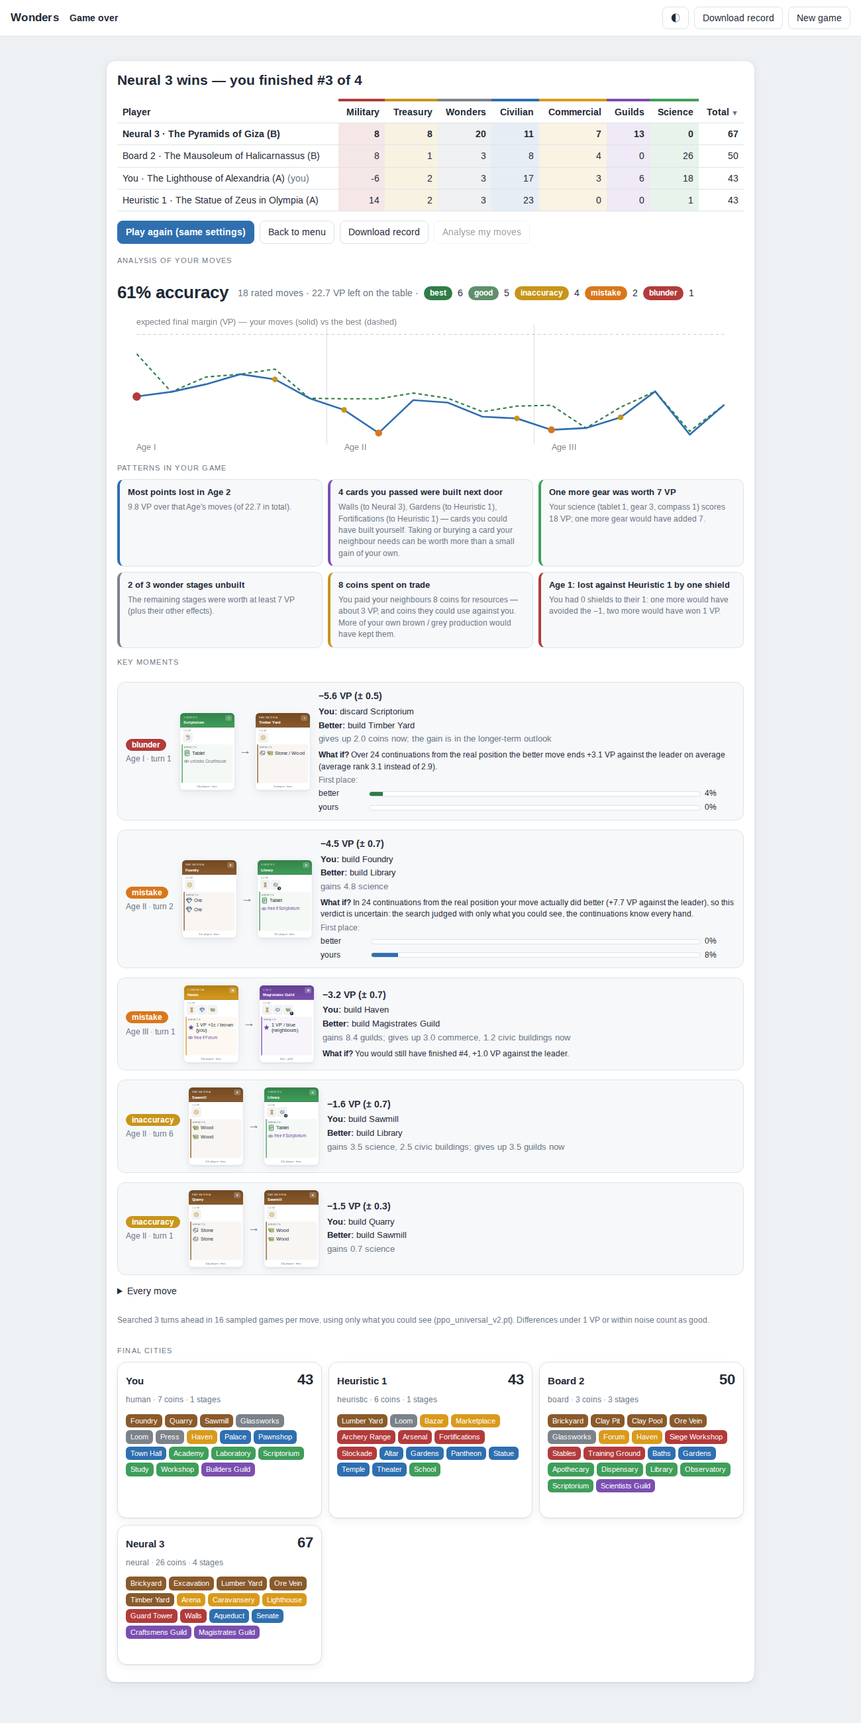
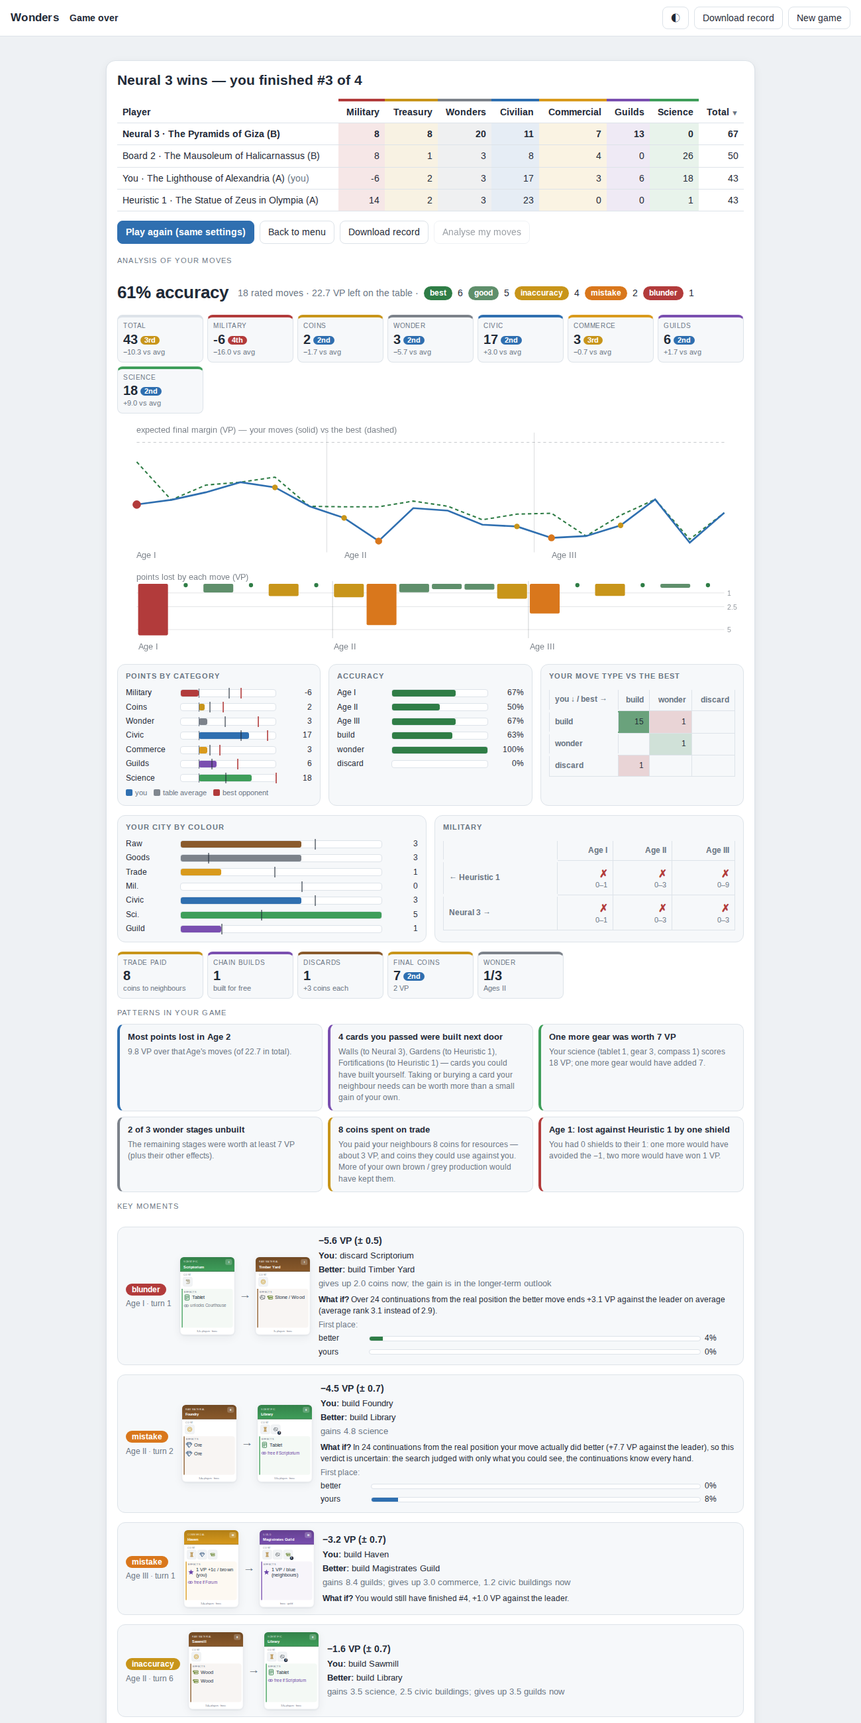
Post-game analysis: per-aspect ratings and visual decision impacts
- analysis.aspects: score categories (yours, table average, best opponent, rank), accuracy and
  VP lost by Age and by move type, played-vs-best move-type matrix, city colours vs the table,
  military result per Age and neighbour, economy (trade paid, chain builds, discards, final coins
  and rank) and wonder stages with their Ages.
- GUI, as stats and charts only: a ratings strip with rank badges, a points-lost-per-move bar chart
  under the margin graph (coloured by rating, tooltips), category bars with average / best markers,
  accuracy bars, a move-type heat grid, city colours, a military result grid, economy and wonder
  cells.
- Tests and docs (CHANGELOG, ROADMAP, CLAUDE.md).

Claude-Session: https://claude.ai/code/session_018AtNR544Y8QdmBVd85cM5L

diff --git a/wonders/play/static/index.html b/wonders/play/static/index.html
@@ -207,6 +207,28 @@ main { max-width: 1920px; margin: 0 auto; padding: 12px 16px; }
 .an-pattern { padding: 10px 12px; border: 1px solid var(--line); border-left: 4px solid var(--pc); border-radius: 10px; background: var(--panel-2); }
 .an-pattern h4 { margin: 0 0 4px; font-size: 13px; }
 .an-pattern p { margin: 0; font-size: 12px; color: var(--muted); }
+.an-strip { display: grid; grid-template-columns: repeat(auto-fill, minmax(118px, 1fr)); gap: 6px; }
+.an-stat { border: 1px solid var(--line); border-top: 4px solid var(--sc, var(--line)); border-radius: 8px; padding: 6px 8px; background: var(--panel-2); }
+.an-stat .k { font-size: 10px; letter-spacing: .6px; text-transform: uppercase; color: var(--muted); white-space: nowrap; overflow: hidden; text-overflow: ellipsis; }
+.an-stat .v { font-size: 20px; font-weight: 800; font-variant-numeric: tabular-nums; line-height: 1.2; }
+.an-stat .s { font-size: 11px; color: var(--muted); font-variant-numeric: tabular-nums; }
+.an-rank { display: inline-block; font-size: 11px; font-weight: 700; padding: 0 6px; border-radius: 999px; margin-left: 4px; vertical-align: middle;
+  background: var(--rk); color: #fff; }
+.an-row { display: grid; grid-template-columns: repeat(auto-fit, minmax(260px, 1fr)); gap: 12px; }
+.an-box { border: 1px solid var(--line); border-radius: 12px; padding: 10px 12px; background: var(--panel-2); }
+.an-box h5 { margin: 0 0 8px; font-size: 11px; letter-spacing: 1px; text-transform: uppercase; color: var(--muted); }
+.an-bars { display: grid; grid-template-columns: 74px minmax(0, 1fr) 46px; gap: 4px 8px; align-items: center; font-size: 12px; }
+.an-track { position: relative; height: 12px; border-radius: 4px; background: var(--panel); border: 1px solid var(--line); }
+.an-track .fill { position: absolute; top: 0; bottom: 0; border-radius: 3px; }
+.an-track .avg { position: absolute; top: -3px; bottom: -3px; width: 2px; background: var(--ink); opacity: .55; }
+.an-track .top { position: absolute; top: -3px; bottom: -3px; width: 2px; background: var(--red); opacity: .8; }
+.an-track .zero { position: absolute; top: -2px; bottom: -2px; width: 1px; background: var(--muted); }
+.an-grid { border-collapse: collapse; font-size: 12px; width: 100%; }
+.an-grid td, .an-grid th { padding: 3px 6px; text-align: center; border: 1px solid var(--line); font-variant-numeric: tabular-nums; }
+.an-grid th { color: var(--muted); font-weight: 600; }
+.an-mil { font-size: 16px; font-weight: 800; }
+.an-legend { display: flex; gap: 10px; font-size: 11px; color: var(--muted); margin-top: 6px; flex-wrap: wrap; }
+.an-legend i { display: inline-block; width: 10px; height: 10px; border-radius: 2px; margin-right: 4px; vertical-align: -1px; }
 .an-progress { height: 8px; border-radius: 999px; background: var(--panel-2); border: 1px solid var(--line); overflow: hidden; }
 .an-progress div { height: 100%; background: var(--accent); width: 0; transition: width .3s; }
 
@@ -825,6 +847,121 @@ function whatIf(w) {
     (w.best.first || w.played.first) ? bar('better', w.best.first, 'var(--green)') : null,
     (w.best.first || w.played.first) ? bar('yours', w.played.first, 'var(--accent)') : null);
 }
+const CAT_LABEL = { total: 'Total', military: 'Military', treasury: 'Coins', wonders: 'Wonder', civilian: 'Civic', commercial: 'Commerce',
+  guilds: 'Guilds', science: 'Science', leaders: 'Leaders', cities: 'Cities' };
+const RANK_COLOR = ['var(--green)', 'var(--accent)', 'var(--gold)', 'var(--red)'];
+const ordinal = (n) => n + (n === 1 ? 'st' : n === 2 ? 'nd' : n === 3 ? 'rd' : 'th');
+function rankBadge(rank, players) {
+  const color = rank === 1 ? RANK_COLOR[0] : rank === players ? RANK_COLOR[3] : rank <= players / 2 ? RANK_COLOR[1] : RANK_COLOR[2];
+  return el('span', { class: 'an-rank', style: `--rk:${color}` }, ordinal(rank));
+}
+function stat(key, value, sub, color, tip, extra) {
+  return el('div', { class: 'an-stat', style: color ? `--sc:${color}` : null, 'data-tip': tip || null },
+    el('div', { class: 'k' }, key), el('div', { class: 'v' }, value, extra || null), sub !== null ? el('div', { class: 's' }, sub) : null);
+}
+function categoryStrip(asp) {
+  const order = [...asp.categories].sort((x, y) => (y.key === 'total') - (x.key === 'total'));
+  return el('div', { class: 'an-strip' }, order.map((c) => {
+    const d = c.mine - c.average;
+    return stat(CAT_LABEL[c.key] || c.key, String(c.mine), `${d >= 0 ? '+' : '−'}${Math.abs(d).toFixed(1)} vs avg`, CAT_COLOR[c.key],
+      `${CAT_LABEL[c.key] || c.key}: ${c.mine} VP, table average ${c.average}, best opponent ${c.best_other}`, rankBadge(c.rank, asp.players));
+  }));
+}
+function categoryBars(asp) {
+  const cats = asp.categories.filter((c) => c.key !== 'total');
+  const all = cats.flatMap((c) => [c.mine, c.average, c.best_other]);
+  const lo = Math.min(0, ...all), hi = Math.max(1, ...all);
+  const pos = (v) => (100 * (v - lo) / (hi - lo));
+  const rows = cats.flatMap((c) => {
+    const a = pos(Math.min(0, c.mine)), b = pos(Math.max(0, c.mine));
+    return [el('span', {}, CAT_LABEL[c.key] || c.key),
+      el('div', { class: 'an-track', 'data-tip': `You ${c.mine} · average ${c.average} · best opponent ${c.best_other}` },
+        el('div', { class: 'fill', style: `left:${a}%;width:${Math.max(1, b - a)}%;background:${CAT_COLOR[c.key] || 'var(--accent)'}` }),
+        lo < 0 ? el('div', { class: 'zero', style: `left:${pos(0)}%` }) : null,
+        el('div', { class: 'avg', style: `left:${pos(c.average)}%` }), el('div', { class: 'top', style: `left:${pos(c.best_other)}%` })),
+      el('span', { style: 'text-align:right;font-variant-numeric:tabular-nums' }, String(c.mine))];
+  });
+  return el('div', { class: 'an-box' }, el('h5', {}, 'Points by category'), el('div', { class: 'an-bars' }, rows),
+    el('div', { class: 'an-legend' }, el('span', {}, el('i', { style: 'background:var(--accent)' }), 'you'),
+      el('span', {}, el('i', { style: 'background:var(--ink);opacity:.55' }), 'table average'),
+      el('span', {}, el('i', { style: 'background:var(--red)' }), 'best opponent')));
+}
+function impactChart(decisions) {
+  const rated = decisions.filter((d) => 'loss' in d);
+  if (!rated.length) return null;
+  const W = 900, H = 120, pad = 28, bw = (W - 2 * pad) / rated.length;
+  const top = Math.max(5, ...rated.map((d) => d.loss));
+  let svg = `<svg viewBox="0 0 ${W} ${H}" role="img" aria-label="Points lost by each move">`;
+  svg += `<text x="${pad}" y="12" font-size="12" fill="currentColor" opacity=".6">points lost by each move (VP)</text>`;
+  [1, 2.5, 5].forEach((v) => { if (v <= top) { const y = 18 + (H - pad - 18) * (v / top);
+    svg += `<line x1="${pad}" x2="${W - pad}" y1="${y}" y2="${y}" stroke="currentColor" stroke-opacity=".12"/><text x="${W - pad + 4}" y="${y + 4}" font-size="10" fill="currentColor" opacity=".5">${v}</text>`; } });
+  rated.forEach((d, i) => {
+    const x = pad + i * bw, h = (H - pad - 18) * (d.loss / top);
+    if (i && d.age !== rated[i - 1].age) svg += `<line x1="${x}" x2="${x}" y1="14" y2="${H - pad + 4}" stroke="currentColor" stroke-opacity=".2"/>`;
+    const tip = `Age ${AGES[d.age]} turn ${d.turn}: ${moveText(d.played)} — ${d.label}${d.loss ? ' (−' + d.loss.toFixed(1) + ' VP; better: ' + moveText(d.best) + ')' : ''}`;
+    svg += `<g data-tip="${tip.replace(/"/g, '&quot;')}"><rect x="${x + 1}" y="18" width="${bw - 2}" height="${H - pad - 18}" fill="transparent"/>`;
+    svg += d.loss > 0 ? `<rect x="${x + 2}" y="18" width="${bw - 4}" height="${Math.max(2, h)}" rx="2" fill="${LABEL_COLOR[d.label] || 'gray'}"/>`
+      : `<circle cx="${x + bw / 2}" cy="20" r="3" fill="${LABEL_COLOR[d.label]}"/>`;
+    svg += '</g>';
+  });
+  [1, 2, 3].forEach((a) => { const i = rated.findIndex((d) => d.age === a);
+    if (i >= 0) svg += `<text x="${pad + i * bw + 2}" y="${H - 8}" font-size="12" fill="currentColor" opacity=".6">Age ${AGES[a]}</text>`; });
+  svg += '</svg>';
+  const box = el('div', { class: 'an-graph' }); box.innerHTML = svg; return box;
+}
+function accuracyBox(asp) {
+  const bar = (label, s, tip) => [el('span', {}, label),
+    el('div', { class: 'an-track', 'data-tip': tip }, el('div', { class: 'fill', style: `left:0;width:${Math.round(100 * (s.accuracy || 0))}%;background:var(--green)` })),
+    el('span', { style: 'text-align:right' }, s.accuracy === null ? '–' : Math.round(100 * s.accuracy) + '%')];
+  const rows = asp.by_age.filter((s) => s.moves).flatMap((s) => bar('Age ' + AGES[s.age], s, `${s.moves} moves · ${s.loss.toFixed(1)} VP lost`));
+  const kinds = Object.entries(asp.by_kind).flatMap(([k, s]) => bar(VERB[k] ? k : k, s, `${s.moves} ${k} moves · ${s.loss.toFixed(1)} VP lost`));
+  return el('div', { class: 'an-box' }, el('h5', {}, 'Accuracy'), el('div', { class: 'an-bars' }, rows, kinds));
+}
+function matrixBox(asp) {
+  const kinds = ['build', 'wonder', 'discard', 'free'].filter((k) => asp.kind_matrix[k] || Object.values(asp.kind_matrix).some((r) => r[k]));
+  const max = Math.max(1, ...Object.values(asp.kind_matrix).flatMap((r) => Object.values(r)));
+  return el('div', { class: 'an-box' }, el('h5', {}, 'Your move type vs the best'),
+    el('table', { class: 'an-grid' }, el('tr', {}, el('th', {}, 'you ↓ / best →'), kinds.map((k) => el('th', {}, k))),
+      kinds.map((k) => el('tr', {}, el('th', {}, k), kinds.map((b) => {
+        const n = (asp.kind_matrix[k] || {})[b] || 0;
+        const color = k === b ? 'var(--green)' : 'var(--red)';
+        return el('td', { style: n ? `background:color-mix(in srgb, ${color} ${Math.round(15 + 55 * n / max)}%, transparent)` : null,
+          'data-tip': `${n} move${n === 1 ? '' : 's'}: you chose ${k}, the best was ${b}` }, n ? String(n) : '');
+      })))));
+}
+function cardsBox(asp) {
+  const entries = Object.entries(asp.cards).sort((x, y) => COLORS.indexOf(x[0]) - COLORS.indexOf(y[0]));
+  const top = Math.max(1, ...entries.flatMap(([, c]) => [c.mine, c.average]));
+  return el('div', { class: 'an-box' }, el('h5', {}, 'Your city by colour'), el('div', { class: 'an-bars' }, entries.flatMap(([col, c]) => [
+    el('span', { 'data-tip': GROUPS[col] || col }, SHORT_GROUPS[col] || col),
+    el('div', { class: 'an-track', 'data-tip': `${GROUPS[col] || col}: ${c.mine} cards · table average ${c.average}` },
+      el('div', { class: 'fill', style: `left:0;width:${100 * c.mine / top}%;background:var(--c-${col})` }),
+      el('div', { class: 'avg', style: `left:${100 * c.average / top}%` })),
+    el('span', { style: 'text-align:right' }, String(c.mine))])));
+}
+function militaryBox(asp) {
+  const sym = { win: ['✓', 'var(--green)'], tie: ['=', 'var(--muted)'], loss: ['✗', 'var(--red)'] };
+  const sides = ['left', 'right'];
+  return el('div', { class: 'an-box' }, el('h5', {}, 'Military'),
+    el('table', { class: 'an-grid' }, el('tr', {}, el('th', {}, ''), [1, 2, 3].map((a) => el('th', {}, 'Age ' + AGES[a]))),
+      sides.map((side) => {
+        const row = asp.military.filter((m) => m.side === side);
+        return el('tr', {}, el('th', {}, side === 'left' ? '← ' + (row[0] || {}).opponent : (row[0] || {}).opponent + ' →'),
+          [1, 2, 3].map((a) => { const m = row.find((r) => r.age === a); if (!m) return el('td', {}, '');
+            const [s, c] = sym[m.result];
+            return el('td', { 'data-tip': `Age ${AGES[a]}: ${m.mine} vs ${m.theirs} shields — ${m.result}` },
+              el('span', { class: 'an-mil', style: `color:${c}` }, s), el('div', { class: 's', style: 'font-size:11px;color:var(--muted)' }, `${m.mine}–${m.theirs}`)); }));
+      })));
+}
+function economyStrip(asp) {
+  const e = asp.economy, w = asp.wonder;
+  return el('div', { class: 'an-strip' },
+    stat('Trade paid', String(e.trade_paid), 'coins to neighbours', 'var(--gold)', 'Coins you paid neighbours for resources'),
+    stat('Chain builds', String(e.chain_builds), 'built for free', 'var(--c-purple)', 'Cards you built for free through a chain'),
+    stat('Discards', String(e.discards), '+3 coins each', 'var(--c-brown)', 'Cards discarded for coins'),
+    stat('Final coins', String(e.final_coins), Math.floor(e.final_coins / 3) + ' VP', 'var(--gold)', 'Coins left at the end (3 = 1 VP)', rankBadge(e.coins_rank, asp.players)),
+    stat('Wonder', `${w.built}/${w.total}`, w.ages.length ? 'Ages ' + w.ages.map((a) => AGES[a]).join(', ') : 'none built', 'var(--c-grey)', 'Wonder stages built (and in which Ages)'));
+}
 function renderAnalysis(a) {
   const box = $('r-analysis'); box.classList.remove('hidden');
   if (a.status === 'running') {
@@ -849,11 +986,16 @@ function renderAnalysis(a) {
   const rows = r.decisions.map((d) => el('tr', {},
     el('td', {}, `${AGES[d.age]} · ${d.turn}`), el('td', {}, moveText(d.played)), el('td', {}, badge(d.label)),
     el('td', {}, d.loss ? '−' + d.loss.toFixed(1) : ''), el('td', {}, d.best && d.label !== 'best' ? moveText(d.best) : '')));
-  box.replaceChildren(
+  box.replaceChildren(...[
     el('p', { class: 'section-title' }, 'Analysis of your moves'),
     el('div', { class: 'an-summary' }, el('span', { class: 'an-big', 'data-tip': 'Moves rated best or within noise of the best' }, Math.round(100 * s.accuracy) + '% accuracy'),
       el('span', { class: 'muted' }, `${s.rated} rated moves · ${s.total_loss.toFixed(1)} VP left on the table ·`), ...counts),
+    r.aspects ? categoryStrip(r.aspects) : null,
     analysisGraph(r.graph),
+    impactChart(r.decisions),
+    r.aspects ? el('div', { class: 'an-row' }, categoryBars(r.aspects), accuracyBox(r.aspects), matrixBox(r.aspects)) : null,
+    r.aspects ? el('div', { class: 'an-row' }, cardsBox(r.aspects), militaryBox(r.aspects)) : null,
+    r.aspects ? economyStrip(r.aspects) : null,
     el('div', {}, (r.patterns || []).length ? [
       el('p', { class: 'section-title' }, 'Patterns in your game'),
       el('div', { class: 'an-patterns' }, r.patterns.map((pt) => el('div', { class: 'an-pattern', style: `--pc:${PATTERN_COLOR[pt.kind] || 'var(--muted)'}` },
@@ -862,7 +1004,7 @@ function renderAnalysis(a) {
     ...moments,
     el('details', {}, el('summary', {}, 'Every move'),
       el('table', { class: 'an-table' }, el('thead', {}, el('tr', {}, ['Age · turn', 'Your move', 'Rating', 'Loss', 'Better'].map((h) => el('th', {}, h)))), el('tbody', {}, rows))),
-    el('p', { class: 'muted', style: 'font-size:12px' }, `Searched ${r.settings.depth} turns ahead in ${r.settings.worlds} sampled games per move, using only what you could see (${r.settings.checkpoint}). Differences under 1 VP or within noise count as good.`));
+    el('p', { class: 'muted', style: 'font-size:12px' }, `Searched ${r.settings.depth} turns ahead in ${r.settings.worlds} sampled games per move, using only what you could see (${r.settings.checkpoint}). Differences under 1 VP or within noise count as good.`)].filter(Boolean));
   $('r-analyse').disabled = true;
 }
 async function pollAnalysis() {

diff --git a/wonders/ml/analysis.py b/wonders/ml/analysis.py
@@ -364,6 +364,121 @@ def _timing_pattern(entries: Sequence[Dict[str, Any]]) -> List[Pattern]:
     ]
 
 
+GOOD = ('best', 'good')
+KINDS = ('build', 'wonder', 'discard', 'free')
+
+
+def _rated_stats(entries: Sequence[Dict[str, Any]]) -> Dict[str, Any]:
+    """Move count, accuracy and VP lost of a set of rated decisions."""
+    rated = [e for e in entries if 'loss' in e]
+    return {
+        'moves': len(rated),
+        'accuracy': round(sum(1 for e in rated if e['label'] in GOOD) / len(rated), 3) if rated else None,
+        'loss': round(sum(e['loss'] for e in rated), 2),
+    }
+
+
+def _ranked(values: List[float], seat: int) -> int:
+    """1-based rank of ``values[seat]`` among all seats (higher is better; ties share the better rank)."""
+    return 1 + sum(1 for i, v in enumerate(values) if i != seat and v > values[seat])
+
+
+def aspects(record: GameRecord, seat: int, decisions: Decisions, entries: Sequence[Dict[str, Any]]) -> Dict[str, Any]:
+    """Statistics of one player's game for charts, compared with the rest of the table where useful.
+
+    Covers the score categories, accuracy by Age and by move type, the city's card colours, military
+    results per Age and neighbour, the economy and the wonder.
+    """
+    content = _content(Ruleset.of(*record.expansions).content_expansions)
+    game = record.replay(content)
+    n = game.n
+    rows = [game.score(i).as_dict() for i in range(n)]
+    categories = []
+    for key in list(rows[seat]):
+        values = [float(r[key]) for r in rows]
+        others = [v for i, v in enumerate(values) if i != seat]
+        if not any(values):
+            continue
+        categories.append(
+            {
+                'key': key,
+                'mine': values[seat],
+                'average': round(sum(others) / len(others), 2),
+                'best_other': max(others),
+                'rank': _ranked(values, seat),
+            }
+        )
+    rated = [e for e in entries if 'loss' in e]
+    by_age = [{'age': age, **_rated_stats([e for e in rated if e['age'] == age])} for age in (1, 2, 3)]
+    by_kind = {k: _rated_stats([e for e in rated if e['played']['kind'] == k]) for k in KINDS}
+    matrix = {k: {b: 0 for b in KINDS} for k in KINDS}
+    for e in rated:
+        matrix[e['played']['kind']][e['best']['kind']] += 1
+    colors = sorted({c.color.value for p in game.players for c in p.cards})
+    cards = {
+        col: {
+            'mine': sum(1 for c in game.players[seat].cards if c.color.value == col),
+            'average': round(
+                sum(sum(1 for c in game.players[i].cards if c.color.value == col) for i in range(n) if i != seat)
+                / (n - 1),
+                2,
+            ),
+        }
+        for col in colors
+    }
+    trade = chained = 0
+    wonder_ages: List[int] = []
+    for point, obs, action in decisions:
+        if point.kind is not DecisionKind.PLAY:
+            continue
+        view = next((c for c in obs.hand if c.name == action.card.name), None)
+        if action.kind is ActionKind.BUILD and view is not None:
+            trade += view.trade_coins
+            chained += bool(view.chain_free)
+        if action.kind is ActionKind.WONDER:
+            wonder_ages.append(point.age)
+    me = game.players[seat]
+    military = []
+    names = [s.name for s in record.players]
+    shields: Dict[int, List[int]] = {}
+    for age in (1, 2):
+        first = next((obs for point, obs, _a in decisions if point.age == age + 1), None)
+        if first is not None:
+            shields[age] = [c.shields for c in first.table]
+    shields[3] = [p.shields() for p in game.players]
+    for age, row in sorted(shields.items()):
+        for side, other in (('left', (seat + 1) % n), ('right', (seat - 1) % n)):
+            diff = row[seat] - row[other]
+            military.append(
+                {
+                    'age': age,
+                    'side': side,
+                    'opponent': names[other],
+                    'mine': row[seat],
+                    'theirs': row[other],
+                    'result': 'win' if diff > 0 else 'tie' if diff == 0 else 'loss',
+                }
+            )
+    coins = [p.coins for p in game.players]
+    return {
+        'categories': categories,
+        'by_age': by_age,
+        'by_kind': {k: v for k, v in by_kind.items() if v['moves']},
+        'kind_matrix': {k: {b: c for b, c in row.items() if c} for k, row in matrix.items() if any(row.values())},
+        'cards': cards,
+        'military': military,
+        'economy': {
+            'trade_paid': trade,
+            'chain_builds': chained,
+            'discards': sum(1 for e in rated if e['played']['kind'] == 'discard'),
+            'final_coins': me.coins,
+            'coins_rank': _ranked([float(c) for c in coins], seat),
+        },
+        'wonder': {'built': me.wonder_stages_built, 'total': len(me.wonder.stages), 'ages': wonder_ages},
+        'players': n,
+    }
+
+
 def patterns(
     record: GameRecord, seat: int, decisions: Decisions, entries: Sequence[Dict[str, Any]], limit: int = 6
 ) -> List[Pattern]:
@@ -502,6 +617,7 @@ def analyse(
             for e in rated_entries
         ],
         'patterns': patterns(record, seat, decisions, entries),
+        'aspects': aspects(record, seat, decisions, entries),
         'decisions': entries,
     }
 

diff --git a/tests/test_analysis.py b/tests/test_analysis.py
@@ -83,3 +83,21 @@ def test_patterns_and_what_if(report):
         assert w['runs'] in (1, 2)
         for side in ('played', 'best'):
             assert 1 <= w[side]['mean_rank'] <= 3 and 0 <= w[side]['first'] <= 1
+
+
+def test_aspects_compare_the_player_with_the_table(report):
+    asp = report['aspects']
+    assert asp['players'] == 3
+    keys = {c['key'] for c in asp['categories']}
+    assert 'total' in keys
+    for c in asp['categories']:
+        assert 1 <= c['rank'] <= 3 and c['best_other'] >= c['average'] - 1e-9
+    assert [s['age'] for s in asp['by_age']] == [1, 2, 3]
+    assert sum(s['moves'] for s in asp['by_age']) == sum(s['moves'] for s in asp['by_kind'].values()) == 18
+    assert sum(n for row in asp['kind_matrix'].values() for n in row.values()) == 18
+    assert {m['result'] for m in asp['military']} <= {'win', 'tie', 'loss'} and len(asp['military']) == 6
+    assert sum(c['mine'] for c in asp['cards'].values()) > 0
+    assert (
+        0 <= asp['wonder']['built'] <= asp['wonder']['total'] and len(asp['wonder']['ages']) == asp['wonder']['built']
+    )
+    assert asp['economy']['trade_paid'] >= 0 and 1 <= asp['economy']['coins_rank'] <= 3

diff --git a/CLAUDE.md b/CLAUDE.md
@@ -167,7 +167,7 @@ scoring categories). It is split into three packages under `wonders/`:
   with `GameRecord.replay_observations` (each decision as the seat saw it) and rates every regular
   turn: `SearchAgent.evaluate_detailed` scores the played move next to the policy's top candidates
   in shared worlds (paired loss + standard error, labels, score-category reasons); `analysis.patterns`
-  finds themes across the game, and what-if continuations replay key moments with the better move
+  finds themes across the game, `analysis.aspects` gives per-aspect statistics for the charts, and what-if continuations replay key moments with the better move
   from the real position via `GameRecord.branch` (paired, later Ages reshuffled).
   `expert.collect_search` / `expert.distill` (`wonders train expert`) record the search's soft targets
   (softmax of candidate values) with one searching seat per game and fine-tune the network on them

diff --git a/CHANGELOG.md b/CHANGELOG.md
@@ -5,7 +5,9 @@
 * Post-game analysis: `wonders analyse` and "Analyse my moves" in the GUI rate every move with
   network-guided search (accuracy, key moments with reasons, expected-margin graph), find patterns
   across the game (trade, military by one shield, science, wonder, coins, passed cards, discards) and
-  replay key moments with the better move (`GameRecord.branch`).
+  replay key moments with the better move (`GameRecord.branch`); ratings and charts per aspect
+  (category ranks vs the table, points lost per move, accuracy by Age and move type, city colours,
+  military per neighbour, economy, wonder).
 * The bundled network is retrained under the October 2026 rules (`r1-a`, `sweeps/RETRAIN.md`):
   52.2% head-to-head over the previous network; leader values re-estimated.
 * Rules fix: cards used for a wonder stage stay under the board and discarded leaders return

diff --git a/ROADMAP.md b/ROADMAP.md
@@ -65,7 +65,8 @@ teacher exists (step 3 below).
 
 **Status: done** — `wonders analyse` and the GUI's "Analyse my moves": move ratings with paired noise
 estimates, key moments with reasons, the expected-margin graph, patterns across the game, and what-if
-continuations of the key moments from the real position (`wonders/ml/analysis.py`,
+continuations of the key moments from the real position, and per-aspect ratings and charts
+(category ranks, points lost per move, accuracy by Age and move type, military, economy) (`wonders/ml/analysis.py`,
 `GameRecord.replay_observations` / `GameRecord.branch`). Possible follow-ups: rating the Leaders draft
 and recruitment, and analysing several games for trends.
 
